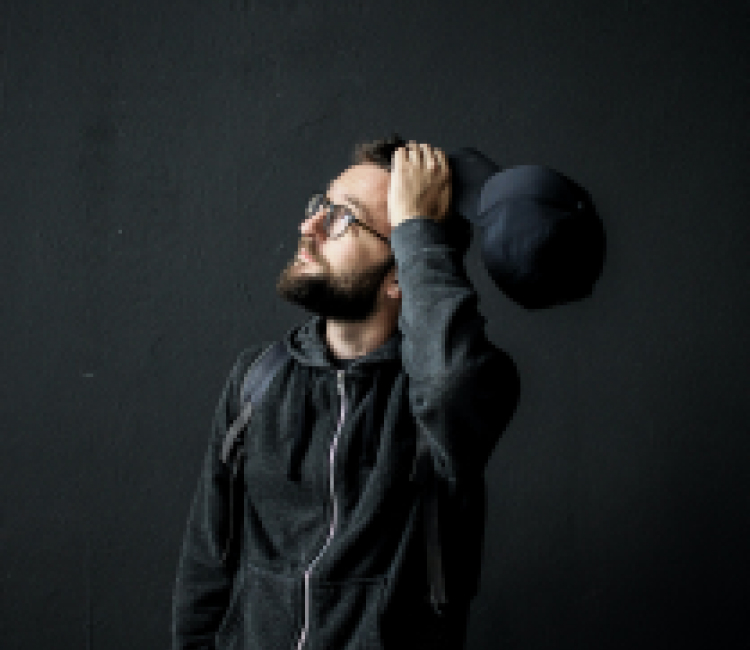
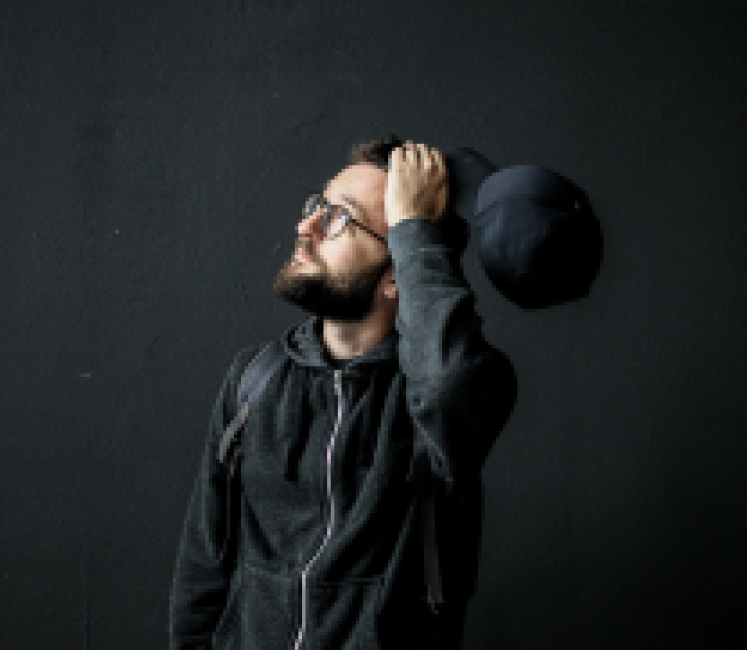
Add files via upload

diff --git a/adaptive/style.css b/adaptive/style.css
@@ -13,12 +13,13 @@
     max-width: 1297px;
     margin: 0 auto;
 }
+.container1{
+    max-width: 1400px;
+    margin: 0 auto;
+}
 header{
-    background-image: url(assets/Slice.jpg);
-    background-repeat: no-repeat; 
-    background-size: cover; 
-    background-position: center center; 
-    background-attachment: fixed; 
+background: #000000;
+background: linear-gradient(90deg, rgba(0, 0, 0, 1) 23%, rgba(24, 24, 35, 1) 23%);
     
 }
 .header-logo{
@@ -42,10 +43,94 @@ header{
 .menu-icon{
     display: none;
 }
+h1{
+    font-size: 78px;
+    font-weight: 600;
+    color: white;
+    text-align: left;
+    margin-bottom: 32px;
+}
+h1 span{
+    font-size: 78px;
+    font-weight: 600;
+    opacity: 50%;
+}
+.itog1{   
+    padding: 80px 40px 84px 0;
+    display: flex;
+    align-items: center; /* Выравнивание элементов по вертикали по центру */
+    justify-content: space-between;
+
+    }
+.Robin{
+    background: #000000;
+    background: linear-gradient(90deg, rgba(0, 0, 0, 1) 23%, rgba(24, 24, 35, 1) 23%);
+    border-bottom: 5px dashed rgb(255, 255, 255, 0.7);
+}
+
+.Robin-img{
+    flex: 1; /* Занимает равную долю пространства */
+    display: flex;
+    justify-content: flex-end;
+    max-width: 100%;
+    height: auto;
+    object-fit: cover;
+}
+.Robin1{
+    flex: 1; /* Занимает равную долю пространства */
+    max-width: 738px; 
+    margin-left: -80px; 
+  /* Гарантирует, что текст будет выше картинки */
+    position: relative; 
+    z-index: 2; 
+}
+.Robin1 p{
+    font-size: 18px;
+    font-weight: 150px;
+    color: white;
+}
+
 @media(min-width: 768px) and (max-width:1440px){
     .container{
         max-width: 688px;
+        margin: 0 auto;
     }
+    header{
+        background-image: none;
+        background-color: black;
+    }
+
+    .Robin{
+        background: black;
+        border-bottom:none ;
+    }
+    .container1{
+        max-width: 742px ;
+    }
+    .itog1{   
+    padding: 80px 0 84px 0;
+    }
+    .Robin1{
+    max-width: 436px;
+    margin-left: -5px; 
+    }
+    .Robin-img{
+        max-width: 384px;
+        height: 650px;
+        justify-content: center;
+    }
+    h1{
+    font-size: 56px;
+    font-weight: 600;
+    color: white;
+    text-align: left;
+    margin-bottom: 32px;
+    }
+    h1 span{
+    font-size: 56px;
+    font-weight: 600;
+    opacity: 50%;}
+
 }
 @media(min-width:360px) and (max-width: 767px){
     .menu-icon{
@@ -60,5 +145,29 @@ header{
     }
     .container{
         max-width: 320px;
+    }
+        header{
+        background-image: none;
+        background-color: black;
+    }
+    .Robin{
+        background-color: black;
+        background-image: url(assets/Frame\ 23.png);
+    }
+    .Robin1{
+    max-width: 320px;
+    padding: 336px 20px 199px 0;
+    }
+    h1{
+    font-size: 32px;
+    font-weight: 600;
+    color: white;
+    text-align: left;
+    margin-bottom: 32px;
+    }
+    h1 span{
+    font-size: 32px;
+    font-weight: 600;
+    opacity: 50%;
     }
 }

diff --git a/adaptive/index.html b/adaptive/index.html
@@ -29,16 +29,22 @@
         </div>
     </header>
     <main>
-        <section>
-            <div>
-                <h1>
-                    I’m Robin Williams. A Product Designer<span>based in Italy.</span>
-                </h1>
-                <p>
-                    I’m probably the most passionate designer you will 
-                    ever get to work with. If you have a great project 
-                    that needs some amazing skills, I’m your guy.
-                </p>
+        <section class="Robin">
+            <div class="container1 itog1">
+                <div class="Robin-img">
+                    <img alt="Robin" src="assets/Rectangle 37.jpg" >
+                </div>
+                    <div class="Robin1">
+                    <h1>
+                        I’m Robin Williams. A Product Designer <span>based in Italy.</span>
+                    </h1>
+                    <p>
+                        I’m probably the most passionate designer you will 
+                        ever get to work with. If you have a great project 
+                        that needs some amazing skills, I’m your guy.
+                    </p>
+                    </div>
+                </div>
             </div>
         </section>
         <section></section>
